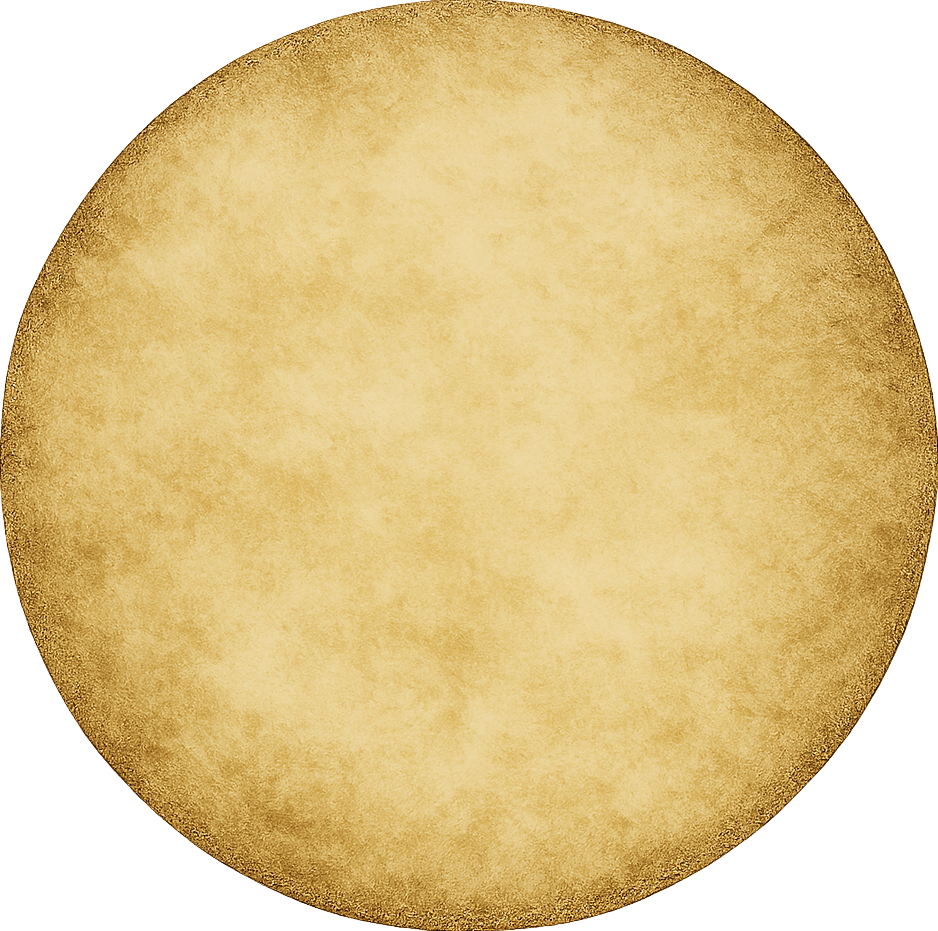
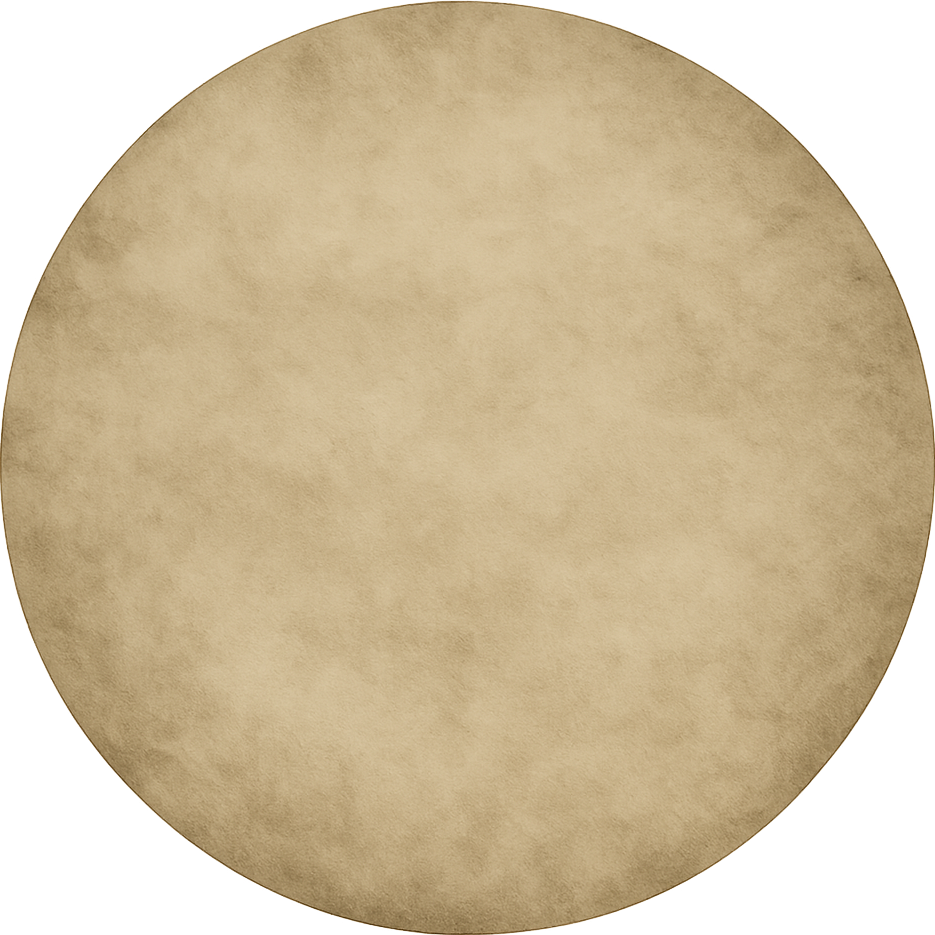
Feat/link to rule book (#244)
* chore: make the token image a bit less shiny

* feat: add rulebook link

diff --git a/script.js b/script.js
@@ -211,6 +211,7 @@ document.addEventListener('DOMContentLoaded', async () => {
     const scriptFileInput = document.getElementById('script-file');
     const playerCountInput = document.getElementById('player-count');
     const addPlayersBtn = document.getElementById('add-players');
+    const openRulebookBtn = document.getElementById('open-rulebook');
 
     const characterModal = document.getElementById('character-modal');
     const characterSearch = document.getElementById('character-search');
@@ -368,6 +369,7 @@ document.addEventListener('DOMContentLoaded', async () => {
       }
       const openPlayerSetupBtn2 = document.getElementById('open-player-setup');
       if (openPlayerSetupBtn2) openPlayerSetupBtn2.style.display = isPlayer ? 'none' : '';
+      if (openRulebookBtn) openRulebookBtn.style.display = isPlayer ? 'none' : '';
       // Always show Start/End Game button in both modes
       if (startGameBtn) startGameBtn.style.display = '';
       const _openStBtn = document.getElementById('open-storyteller-message');

diff --git a/index.html b/index.html
@@ -50,6 +50,7 @@
         </div>
         <div style="margin-top: 8px; display:flex; flex-direction: column; gap:8px; align-items:stretch;">
           <button class="button" id="open-player-setup">Start Player Setup</button>
+          <a class="button" id="open-rulebook" style="text-align:center;" href="https://drive.google.com/file/d/1kyOY-4PmSnQNoH3axyq1cEjVZ2T3kmlm/view" target="_blank" rel="noopener noreferrer">Rulebook</a>
           <button class="button" id="start-game" disabled>Start Game</button>
           <button class="button" id="end-game" style="display:none;">End Game</button>
           <button class="button" id="reveal-assignments">Reveal Characters</button>